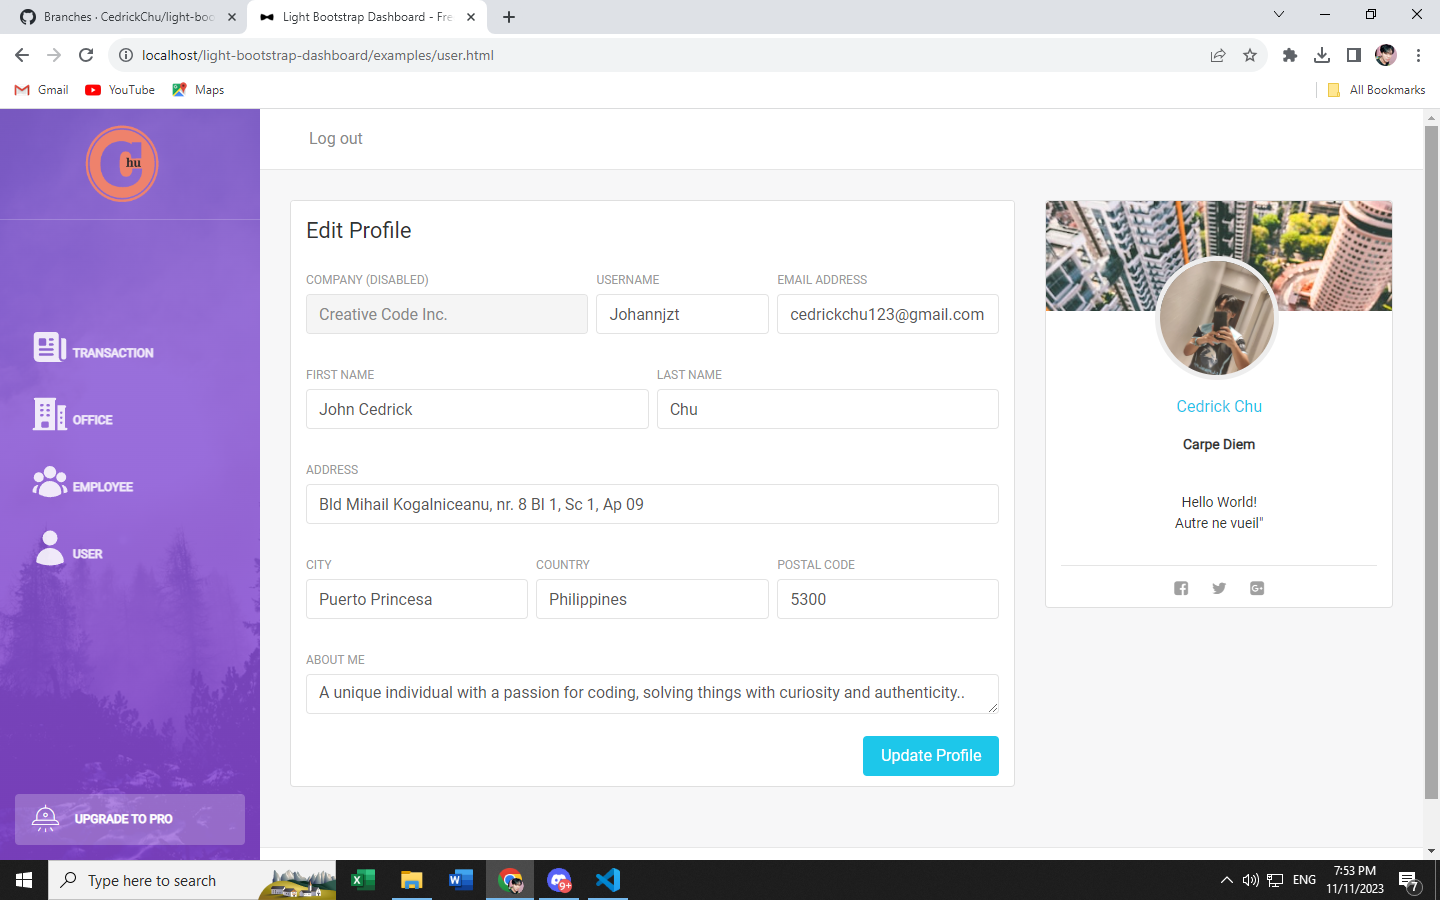
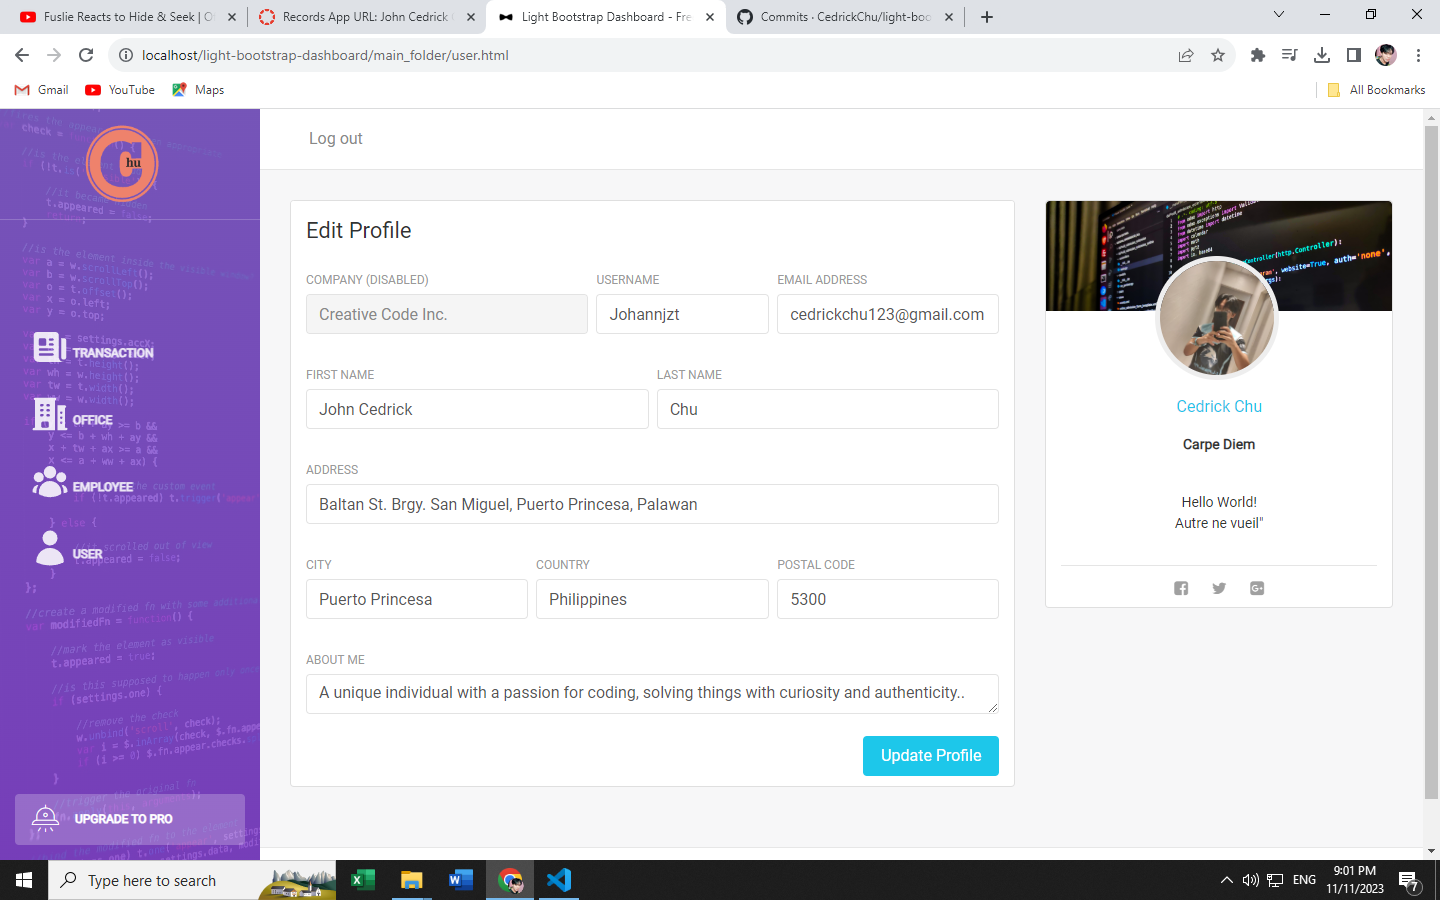
changing screenshots

diff --git a/main_folder/add_employee.php b/main_folder/add_employee.php
@@ -55,7 +55,7 @@ if (isset($_POST['submit'])) {
 
 <body>
     <div class="wrapper">
-        <div class="sidebar" data-image="../assets/img/sidebar-5.jpg">
+        <div class="sidebar" data-image="./img/cs.jpg">
             <div class="sidebar-wrapper">
                 <div class="logo text-center">
                     <a class="navbar-brand" href="https://github.com/CedrickChu">

diff --git a/main_folder/add_office.php b/main_folder/add_office.php
@@ -58,7 +58,7 @@ if (isset($_POST['submit'])) {
 
 <body>
     <div class="wrapper">
-        <div class="sidebar" data-image="../assets/img/sidebar-5.jpg">
+        <div class="sidebar" data-image="./img/cs.jpg">
             <div class="sidebar-wrapper">
                 <div class="logo text-center">
                     <a class="navbar-brand" href="https://github.com/CedrickChu">

diff --git a/main_folder/add_transaction.php b/main_folder/add_transaction.php
@@ -76,7 +76,7 @@ if (isset($_POST['submit'])) {
 
 <body>
     <div class="wrapper">
-        <div class="sidebar" data-image="../assets/img/sidebar-5.jpg">
+        <div class="sidebar" data-image="./img/cs.jpg">
             <div class="sidebar-wrapper">
                 <div class="logo text-center">
                     <a class="navbar-brand" href="https://github.com/CedrickChu">
